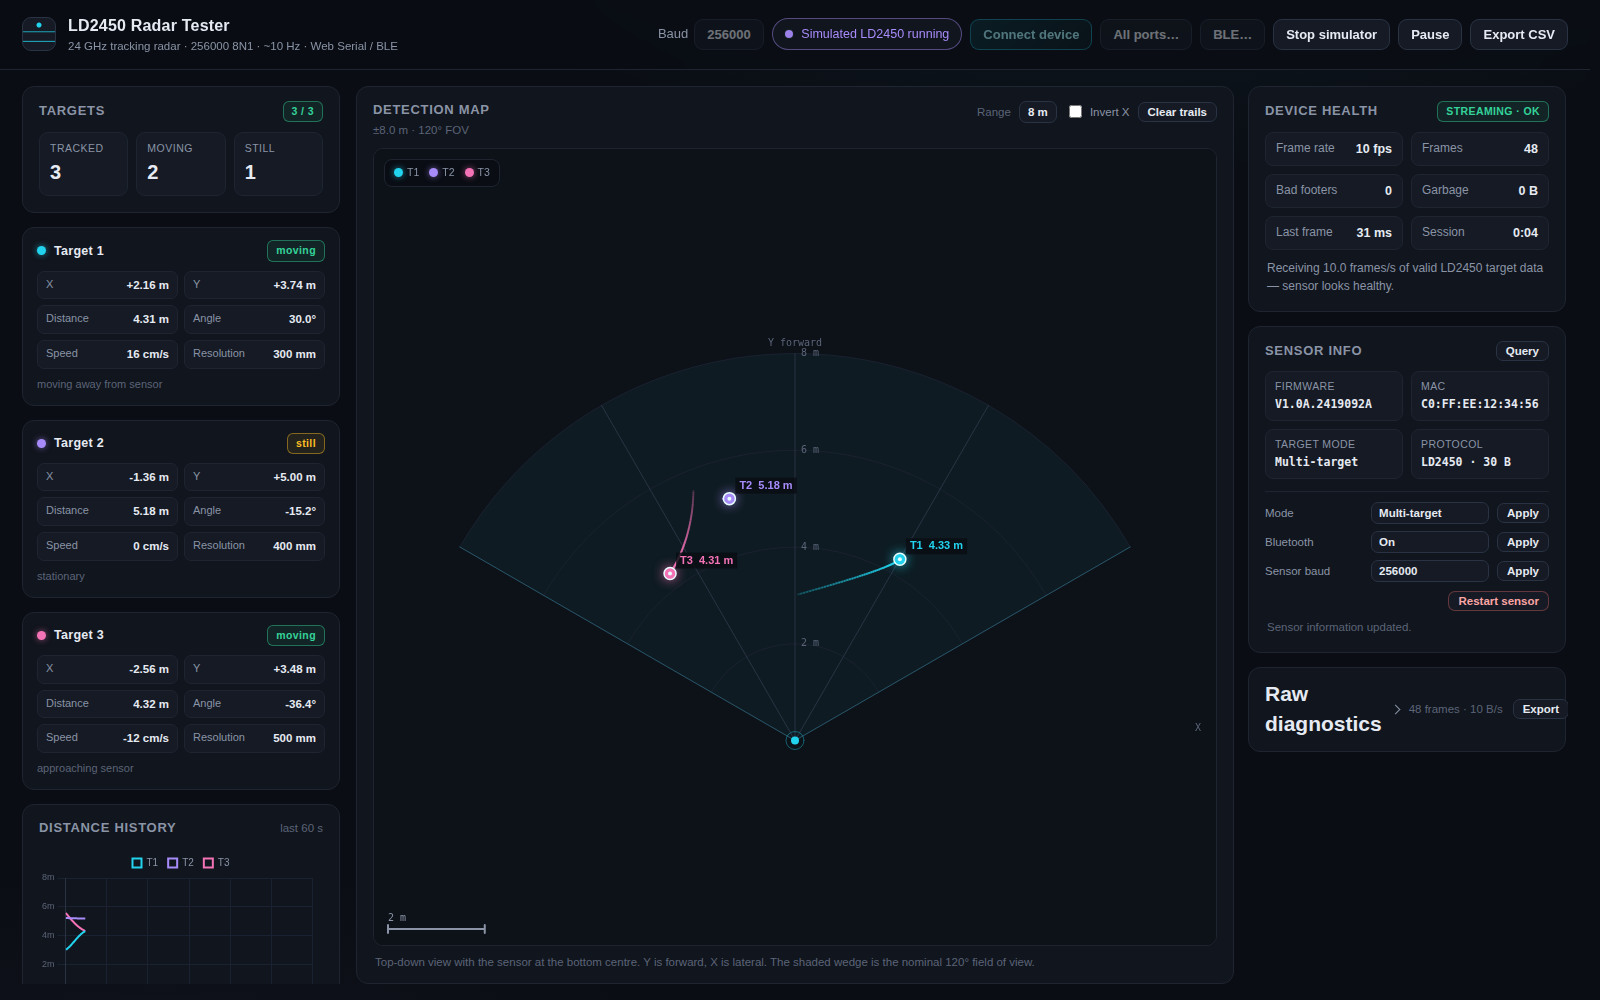
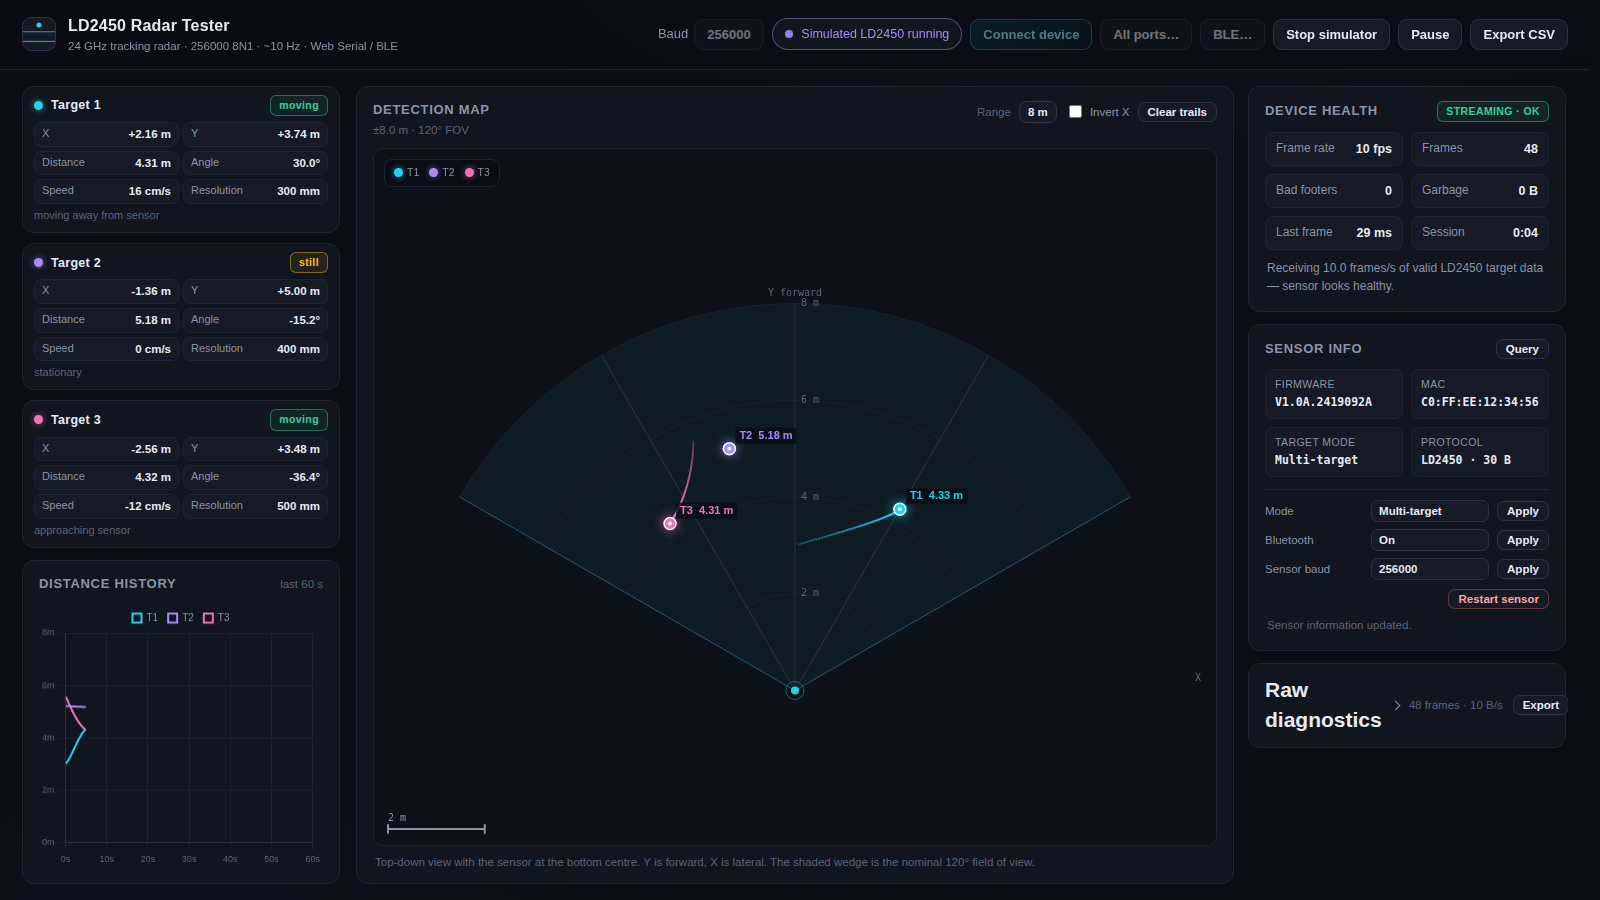
Adjusted the layout a bit.

diff --git a/src/main.ts b/src/main.ts
@@ -32,10 +32,6 @@ const dom = {
   mapScale: el<HTMLElement>('mapScale'),
   mapEmpty: el<HTMLDivElement>('mapEmpty'),
   chartDistance: el<HTMLCanvasElement>('chartDistance'),
-  targetCountBadge: el<HTMLSpanElement>('targetCountBadge'),
-  roTracked: el<HTMLElement>('roTracked'),
-  roMoving: el<HTMLElement>('roMoving'),
-  roStill: el<HTMLElement>('roStill'),
   hz: el<HTMLElement>('hz'),
   frames: el<HTMLElement>('frames'),
   badFooters: el<HTMLElement>('badFooters'),
@@ -315,10 +311,6 @@ function targetAngle(target: RadarTarget): number {
 }
 
 function updateTargetReadouts(): void {
-  let tracked = 0;
-  let moving = 0;
-  let still = 0;
-
   for (let i = 0; i < targetDom.length; i++) {
     const ui = targetDom[i];
     const target = lastFrame?.targets[i];
@@ -334,11 +326,8 @@ function updateTargetReadouts(): void {
       continue;
     }
 
-    tracked++;
-    const isMoving = target.speedCms !== 0;
-    if (isMoving) moving++;
-    else still++;
     const distance = Math.hypot(target.xMm, target.yMm);
+    const isMoving = target.speedCms !== 0;
     ui.x.textContent = signedM(target.xMm);
     ui.y.textContent = signedM(target.yMm);
     ui.distance.textContent = `${(distance / 1000).toFixed(2)} m`;
@@ -350,15 +339,6 @@ function updateTargetReadouts(): void {
     else ui.direction.textContent = 'stationary';
     setBadge(ui.badge, isMoving ? 'moving' : 'still', isMoving ? 'badge-ok' : 'badge-warn');
   }
-
-  dom.roTracked.textContent = String(tracked);
-  dom.roMoving.textContent = String(moving);
-  dom.roStill.textContent = String(still);
-  setBadge(
-    dom.targetCountBadge,
-    `${tracked} / 3`,
-    tracked > 0 ? 'badge-ok' : lastFrame ? 'badge-off' : 'badge-off',
-  );
 }
 
 function updateHealth(hz: number): void {
@@ -760,6 +740,7 @@ if (!window.isSecureContext) {
   dom.btnConnect.disabled = true;
   dom.btnConnectAll.disabled = true;
   dom.btnBle.disabled = true;
+  dom.btnBle.title = 'Web Bluetooth requires a secure context (localhost or HTTPS).';
 } else {
   if (!serialSupported()) {
     showBanner('Web Serial is not available in this browser. Use Chrome, Edge or Opera on desktop — the simulator still works.');
@@ -768,11 +749,17 @@ if (!window.isSecureContext) {
   }
   if (!bleSupported()) {
     dom.btnBle.disabled = true;
+    dom.btnBle.title =
+      'Web Bluetooth is not available in this browser. Use Chrome/Edge on desktop or Android over localhost/HTTPS; Linux Chromium may need --enable-blink-features=WebBluetooth.';
   }
 }
 
 if (!serialSupported()) dom.btnConnect.disabled = true;
-if (!bleSupported()) dom.btnBle.disabled = true;
+if (!bleSupported()) {
+  dom.btnBle.disabled = true;
+  dom.btnBle.title =
+    'Web Bluetooth is not available in this browser. Use Chrome/Edge on desktop or Android over localhost/HTTPS; Linux Chromium may need --enable-blink-features=WebBluetooth.';
+}
 
 commandClient = new CommandClient(async (data: Uint8Array) => {
   if (source === 'serial') await serial.write(data);

diff --git a/src/style.css b/src/style.css
@@ -303,7 +303,7 @@ select:disabled {
 .sidebar {
   display: flex;
   flex-direction: column;
-  gap: 14px;
+  gap: 12px;
   overflow-y: auto;
   min-height: 0;
   padding-right: 2px;
@@ -399,49 +399,22 @@ select:disabled {
 
 /* ---------- targets ---------- */
 
-.summary-row {
-  display: grid;
-  grid-template-columns: repeat(3, 1fr);
-  gap: 8px;
-}
-
-.summary {
-  display: flex;
-  flex-direction: column;
-  gap: 2px;
-  padding: 8px 10px;
-  background: var(--panel-2);
-  border: 1px solid var(--border);
-  border-radius: 9px;
-}
-
-.summary .label {
-  font-size: 10.5px;
-  text-transform: uppercase;
-  letter-spacing: 0.5px;
-  color: var(--muted);
-}
-
-.summary .value b {
-  font-size: 20px;
-  font-weight: 650;
-}
-
 .target-list {
   display: flex;
   flex-direction: column;
-  gap: 14px;
+  gap: 10px;
+  flex: 0 0 auto;
 }
 
 .target-card {
-  padding: 12px 14px 12px;
+  padding: 8px 11px;
 }
 
 .target-head {
   display: flex;
   align-items: center;
   gap: 8px;
-  margin-bottom: 9px;
+  margin-bottom: 6px;
 }
 
 .target-head h3 {
@@ -478,7 +451,7 @@ select:disabled {
 .target-grid {
   display: grid;
   grid-template-columns: 1fr 1fr;
-  gap: 6px;
+  gap: 4px;
   margin: 0;
 }
 
@@ -486,7 +459,7 @@ select:disabled {
   display: flex;
   justify-content: space-between;
   gap: 8px;
-  padding: 5px 8px;
+  padding: 3px 7px;
   background: var(--panel-2);
   border: 1px solid var(--border);
   border-radius: 7px;
@@ -508,7 +481,7 @@ select:disabled {
 }
 
 .target-foot {
-  margin-top: 8px;
+  margin-top: 4px;
   font-size: 11px;
   color: var(--faint);
   min-height: 16px;
@@ -518,7 +491,20 @@ select:disabled {
 
 .chart-wrap {
   position: relative;
-  height: 170px;
+  height: 160px;
+}
+
+.chart-card {
+  display: flex;
+  flex-direction: column;
+  flex: 1 1 auto;
+  min-height: 0;
+}
+
+.chart-card .chart-wrap {
+  flex: 1 1 auto;
+  height: auto;
+  min-height: 96px;
 }
 
 /* ---------- map ---------- */
@@ -804,13 +790,30 @@ details.card summary .hint-inline {
 
 /* ---------- responsive ---------- */
 
+@media (max-width: 1366px) {
+  .topbar {
+    padding: 10px 16px;
+    gap: 10px;
+  }
+
+  .topbar-actions {
+    gap: 6px;
+  }
+
+  .btn {
+    padding: 6px 10px;
+    font-size: 12.5px;
+  }
+
+  .pill {
+    padding: 5px 10px;
+    font-size: 12px;
+  }
+}
+
 @media (max-width: 1200px) {
   .layout {
     grid-template-columns: 280px minmax(0, 1fr) 280px;
-  }
-
-  .target-grid {
-    grid-template-columns: 1fr;
   }
 }
 
@@ -837,6 +840,14 @@ details.card summary .hint-inline {
 
   .target-grid {
     grid-template-columns: 1fr 1fr;
+  }
+
+  .chart-card {
+    flex: 0 0 auto;
+  }
+
+  .chart-card .chart-wrap {
+    height: 180px;
   }
 
   .map-head {

diff --git a/index.html b/index.html
@@ -41,27 +41,6 @@
 
     <main class="layout">
       <section class="sidebar">
-        <div class="card">
-          <div class="card-head">
-            <h2>Targets</h2>
-            <span id="targetCountBadge" class="badge badge-off">0 / 3</span>
-          </div>
-          <div class="summary-row">
-            <div class="summary">
-              <span class="label">Tracked</span>
-              <span class="value"><b id="roTracked">0</b></span>
-            </div>
-            <div class="summary">
-              <span class="label">Moving</span>
-              <span class="value"><b id="roMoving">0</b></span>
-            </div>
-            <div class="summary">
-              <span class="label">Still</span>
-              <span class="value"><b id="roStill">0</b></span>
-            </div>
-          </div>
-        </div>
-
         <div id="targetCards" class="target-list">
           <article class="card target-card" data-target="0">
             <div class="target-head">
@@ -115,7 +94,7 @@
           </article>
         </div>
 
-        <div class="card">
+        <div class="card chart-card">
           <div class="card-head">
             <h2>Distance history</h2>
             <span class="hint-inline">last 60 s</span>
